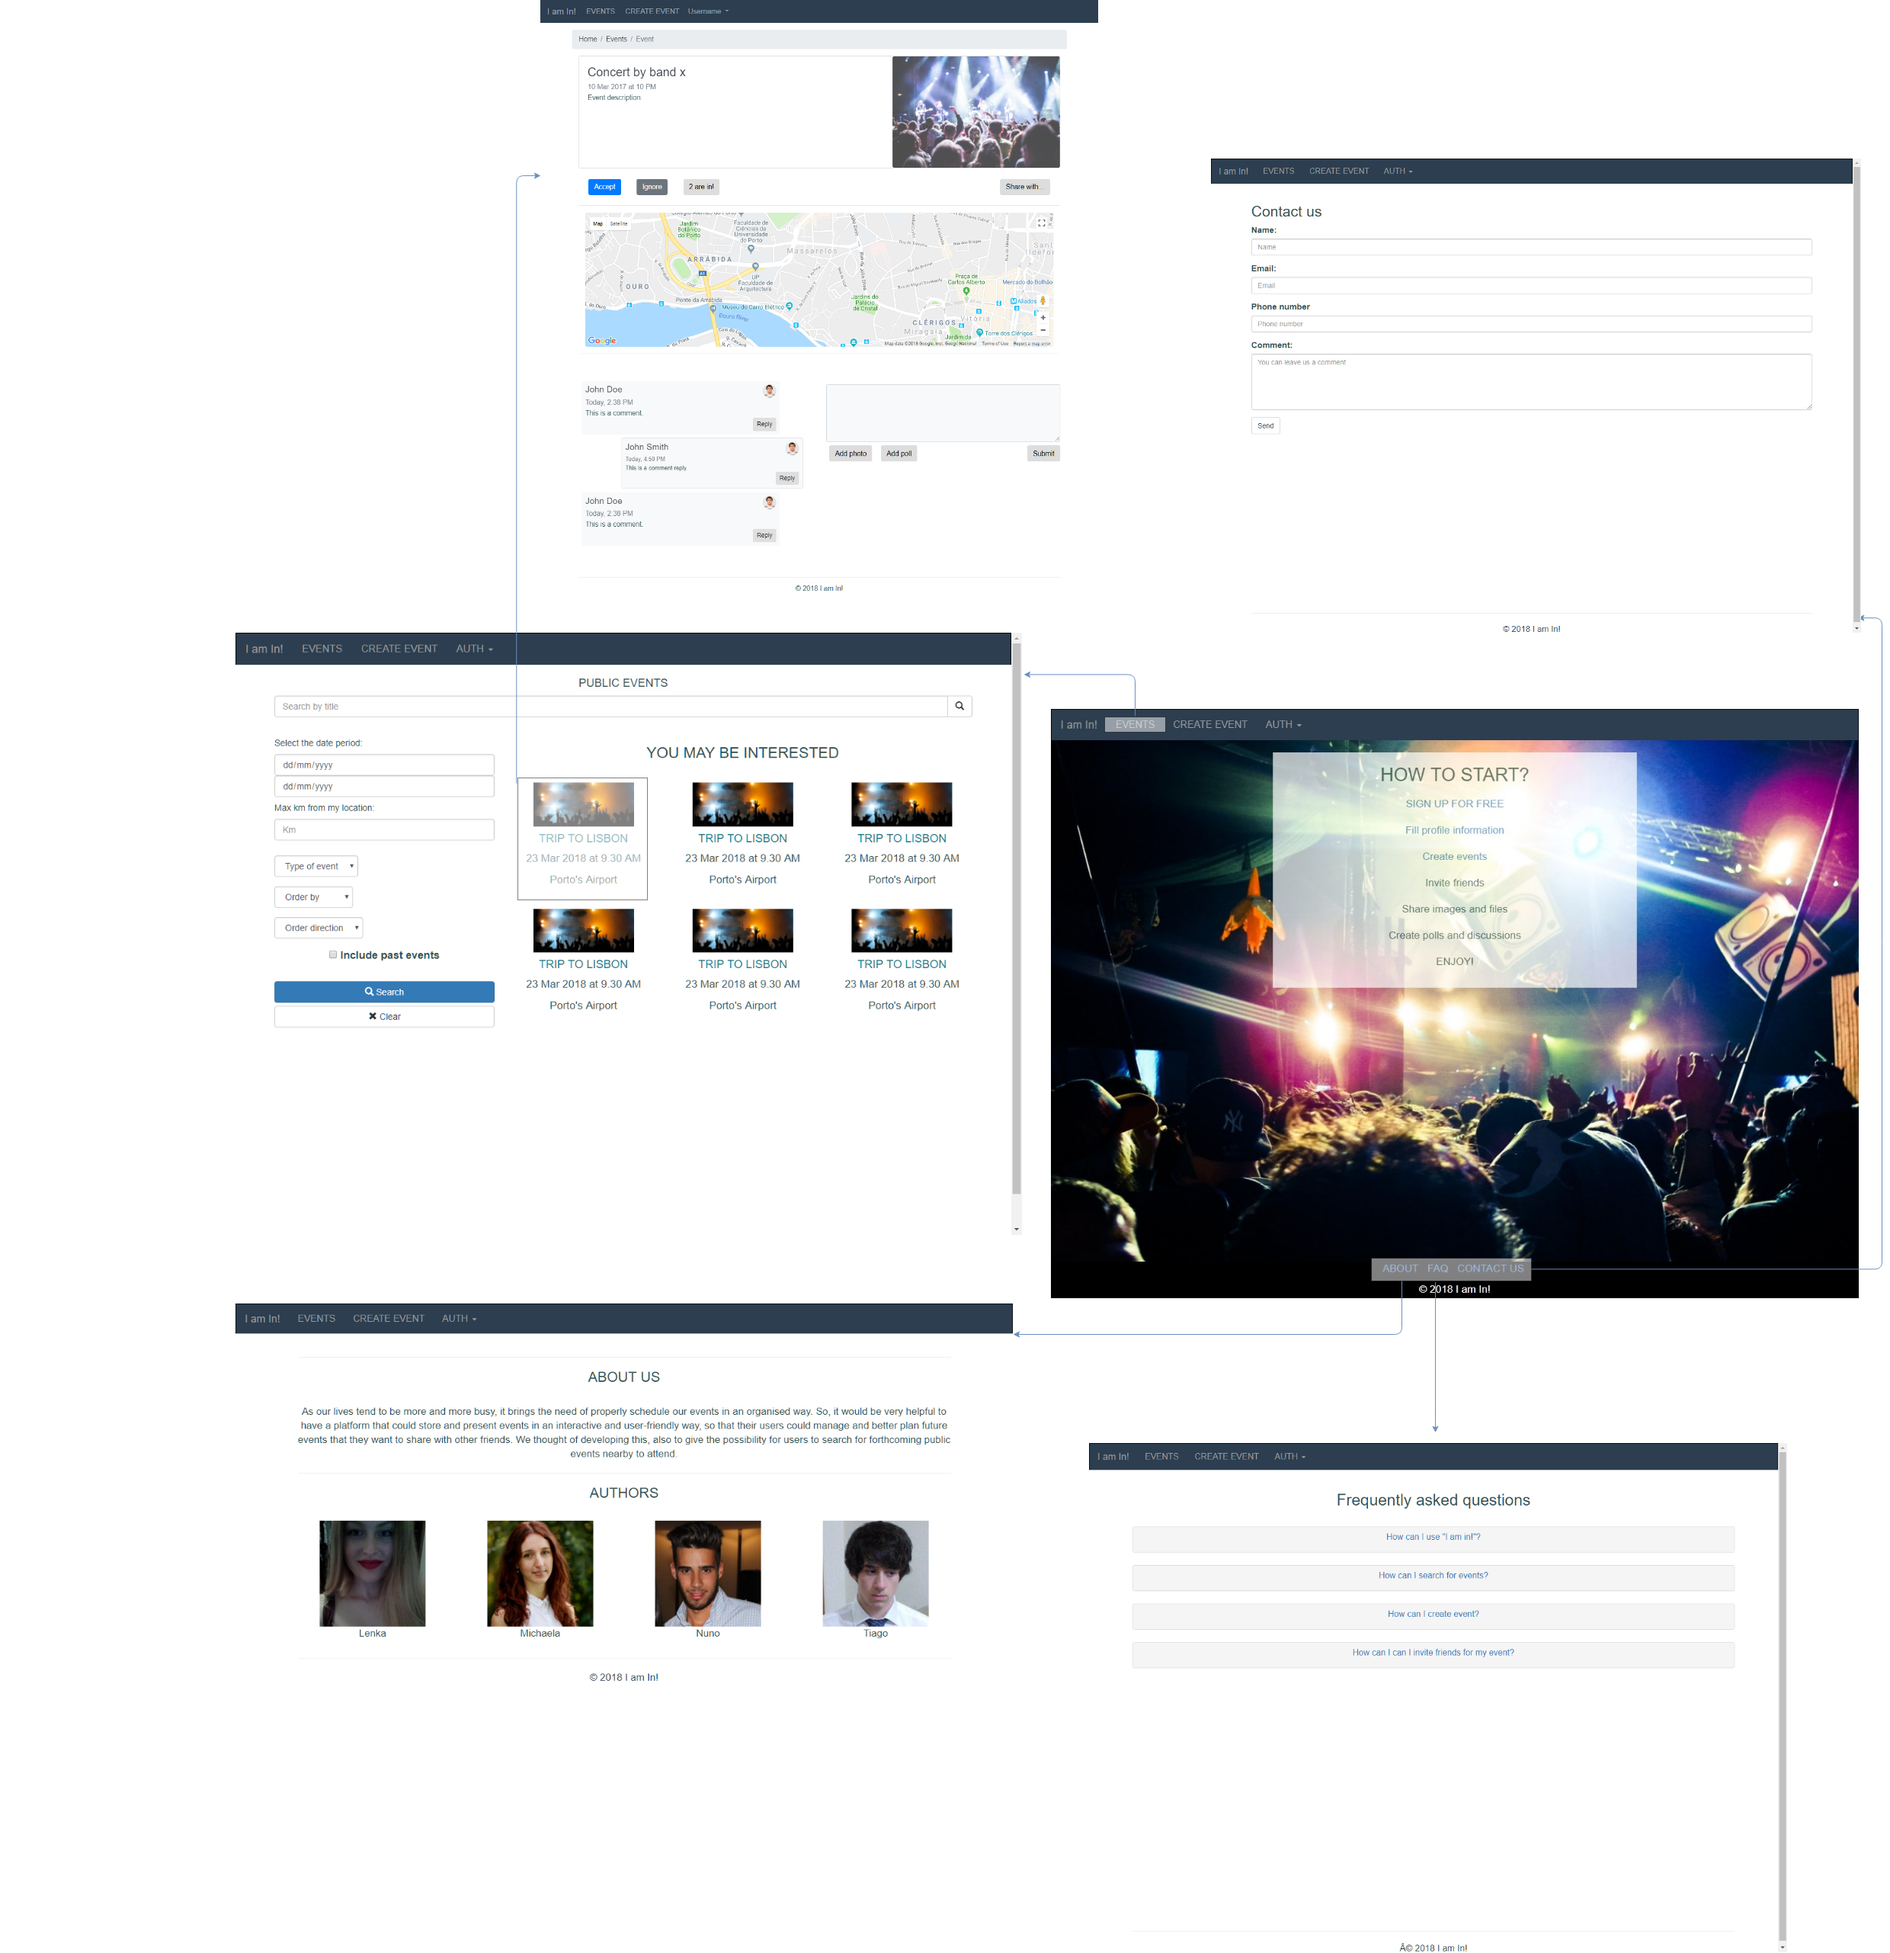
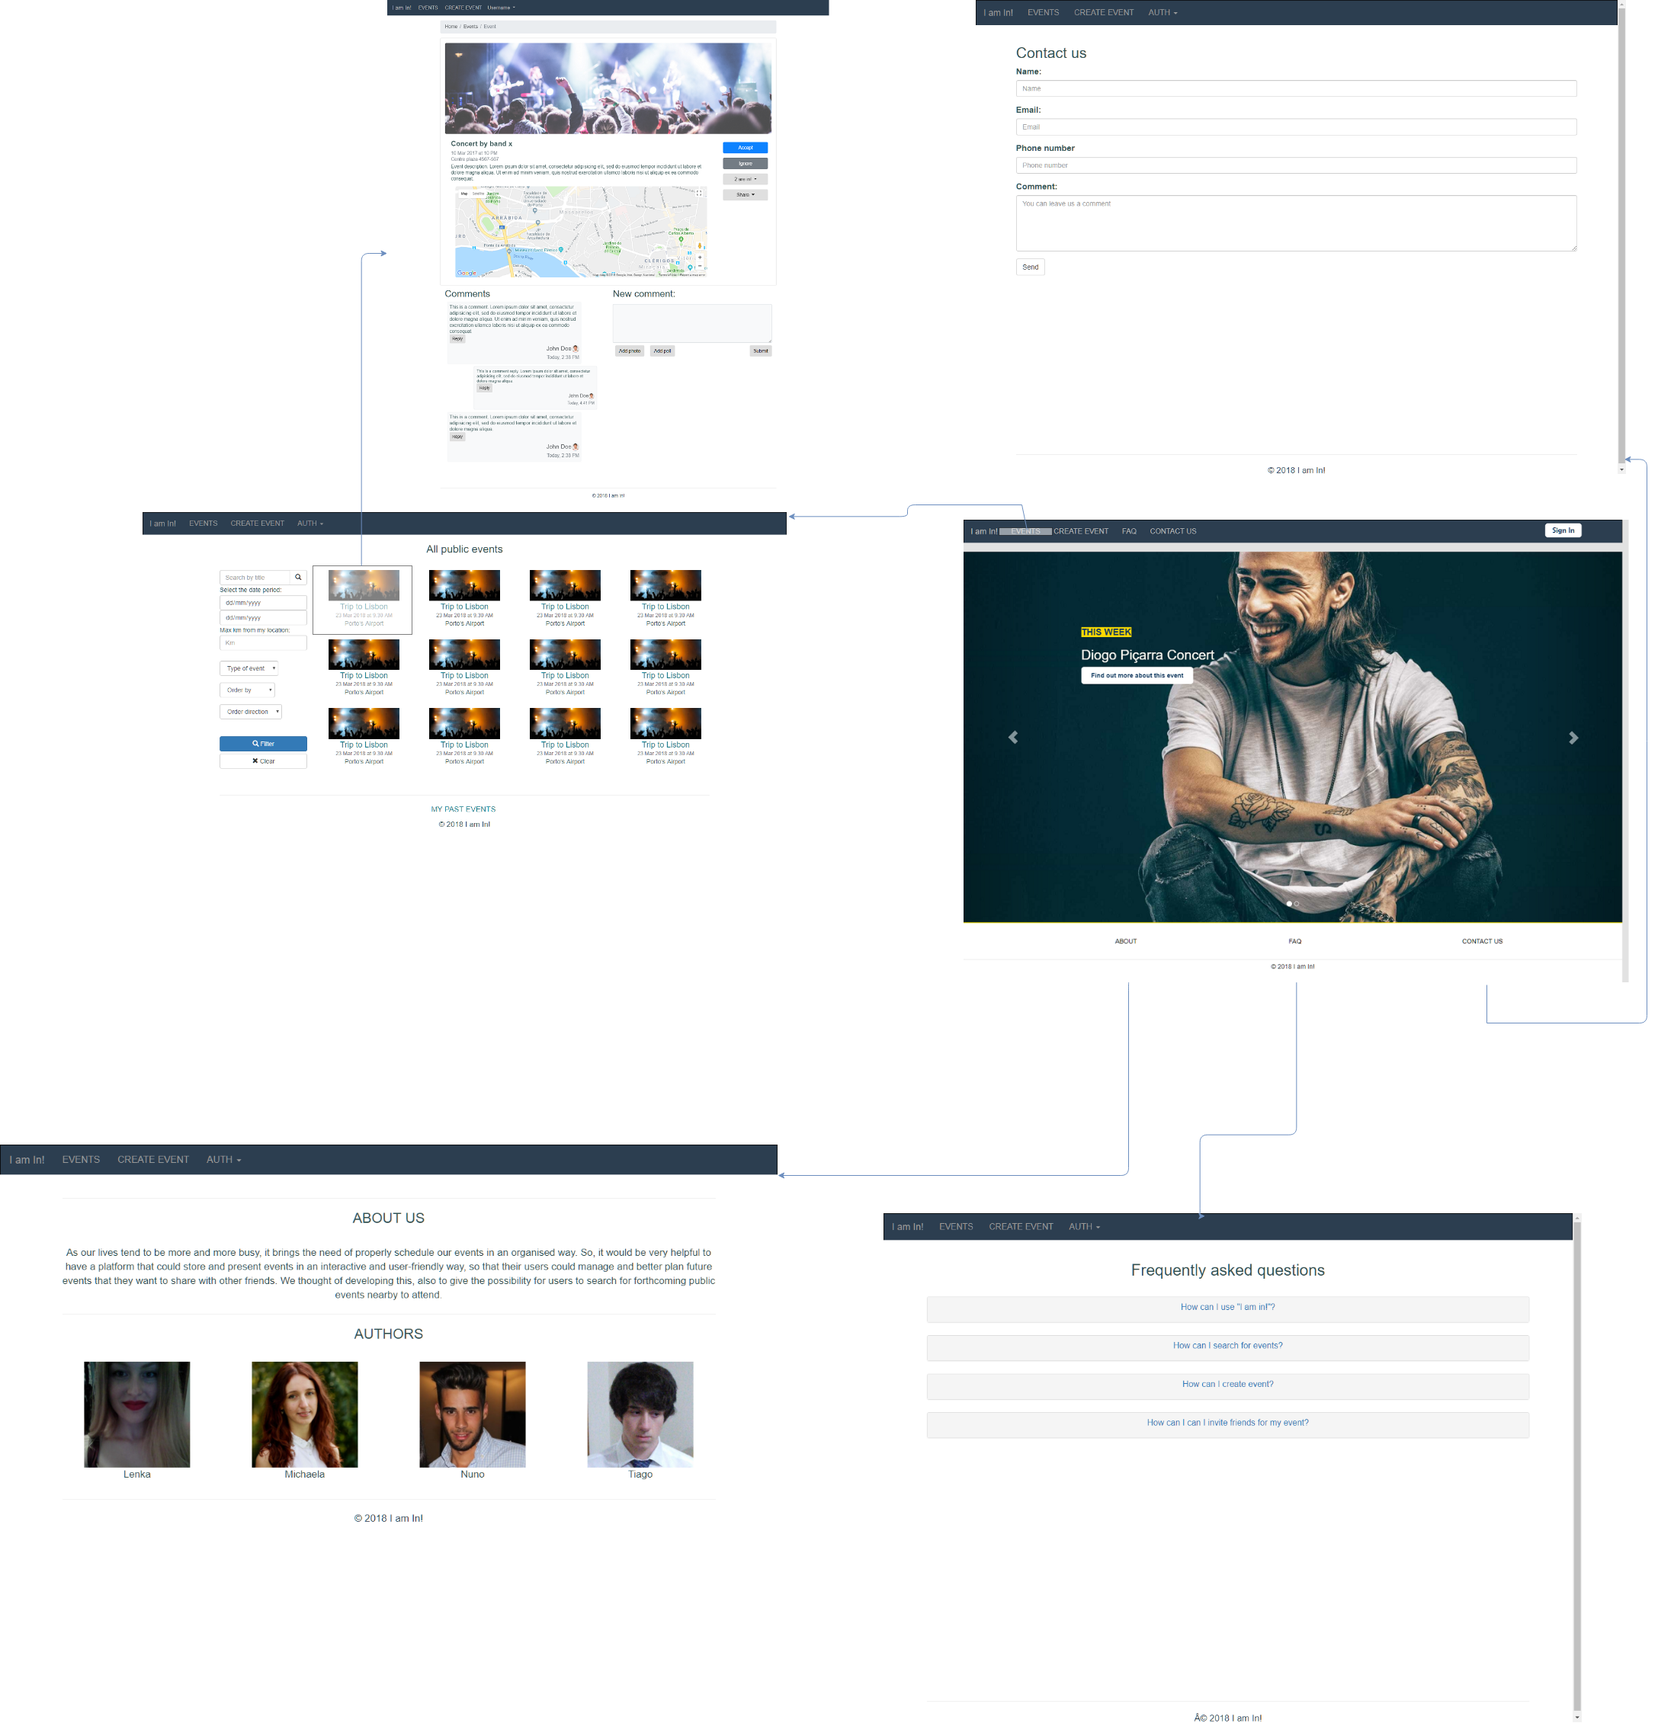
new storyboards

diff --git a/IamIn/pages/index.html b/IamIn/pages/index.html
@@ -30,12 +30,12 @@
                 <li><a href="createEvent/create_event.html">CREATE EVENT</a></li>
                 <li><a href="faq/faq.html">FAQ</a></li>
                 <li><a href="contact/contact.html">CONTACT US</a></li>
-                <li class="dropdown"><a class="dropdown-toggle" data-toggle="dropdown" href="#"> AUTH <span class="caret"></span></a>
+                <!--<li class="dropdown"><a class="dropdown-toggle" data-toggle="dropdown" href="#"> AUTH <span class="caret"></span></a>
                     <ul class="dropdown-menu">
                         <li><a href="user/sign_in.html">SIGN UP</a></li>
                         <li><a href="user/sign_in.html">SIGN IN</a></li>
                     </ul>
-                </li>
+                </li>-->
             </ul>
             <a class="btn btn-lg btn-primary site-login" href="user/sign_in.html">Sign In</a>
 
